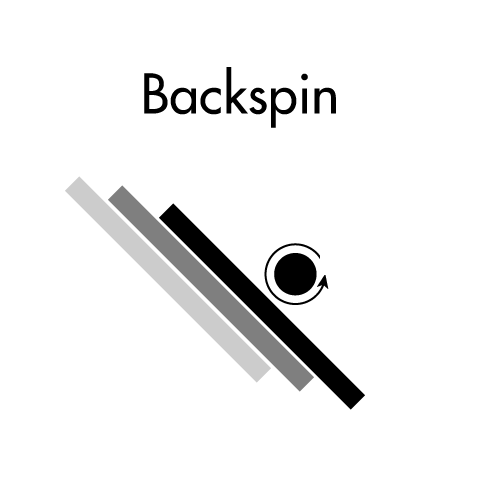
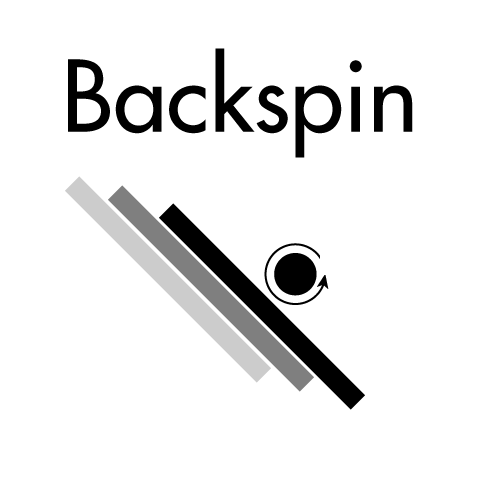
Crazy UI updates

Changed region(s): [[0.125, 0.0938, 0.75, 0.3438], [0.7812, 0.1562, 0.875, 0.2812]]

diff --git a/app/assets/javascripts/serves.js b/app/assets/javascripts/serves.js
@@ -4,54 +4,154 @@ var pauseCheck = null;
 var pauseTime = 0;
 var extraTime = 0;
 
+var state = 0;
+/*
+* 0 = pre-start
+* 1 = played first segment
+* 2 = played second segment
+* 3 = answered
+*/
+
+var answer_length = null;
+var answer_spin = null;
+var answer_direction = null;
+
 $(document).ready(function(){
   if($('.question-container').length > 0){
     videoPlayer = $('video').get(0);
-    videoPlayer.playbackRate = 0.5;
+
     $(videoPlayer).on('canplaythrough', function(){
       $('.loading').text(' ');
-      videoPlayer.play();
+      if(state === 0){
+        $('.start-video').show();
+      }
     });
 
     $(videoPlayer).on('playing', function(){
       pauseCheck = window.setInterval(function() {
         if(videoPlayer.currentTime >= pauseTime) {
-          console.log(videoPlayer.currentTime);
           videoPlayer.pause();
           window.clearInterval(pauseCheck);
-          $('.answer-choices').stop().fadeIn();
+          if(state === 1){
+            $('.show-extra').show();
+            $('.answer-choices').stop().fadeIn();
+          }
         }
       }, 50);
     });
 
-    $('.show-extra').click(function(){
-      pauseTime = extraTime;
-      if(videoPlayer.currentTime <= extraTime){
-        videoPlayer.play();
-      }else{
-        videoPlayer.currentTime = 0;
-        videoPlayer.play();
-      }
+    $('.next-question').click(function(){
+      loadNextQuestion();
+    })
+
+    $('.start-video').click(function(){
+      videoPlayer.play();
+      $(this).hide();
+      state = 1;
     });
 
-    $('.answer-choices li').click(function(){
-      $(this).parent().find('.toggled').removeClass('toggled');
+    $('.show-extra').click(function(){
+      pauseTime = extraTime;
+      state = 2;
+      $(this).hide();
+      $('.replay-video').show();
+      videoPlayer.play();
+    });
+
+    $('.replay-video').click(function(){
+      videoPlayer.currentTime = 0;
+      videoPlayer.play();
+    });
+
+    $('.show-answer').click(function(){
+      state = 3;
+      $('.show-extra, .replay-video').hide();
+      pauseTime = 9999;
+      videoPlayer.currentTime = 0;
+      videoPlayer.play();
+    });
+
+    $(videoPlayer).on('ended', function(){
+      $('.toggled').each(function(){
+        switch($(this).attr('data-choice')){
+          case 'length':
+            if(answer_length != currentServe.serve_length){
+              $(this).addClass('wrong');
+            }else{
+              $(this).addClass('right')
+            }; break;
+          case 'direction':
+            if(answer_direction != currentServe.serve_direction){
+              $(this).addClass('wrong');
+            }else{
+              $(this).addClass('right')
+            }; break;
+          case 'spin':
+            if(answer_spin != currentServe.serve_spin){
+              $(this).addClass('wrong');
+            }else{
+              $(this).addClass('right')
+            }; break;
+        }
+      });
+
+      if($('.right').length == 3){
+        window.setTimeout(celebrateSuccess, 3000);
+      }else{
+        window.setTimeout(punishFailure, 3000);
+      }
+
+      $('.answer-choices img:not(.toggled)').addClass('faded');
+    });
+
+    $('.answer-choices img').click(function(){
+      $(this).siblings('.toggled').removeClass('toggled');
       $(this).addClass('toggled');
+      switch($(this).attr('data-choice')){
+        case 'length': answer_length = $(this).attr('data-answer'); break;
+        case 'direction': answer_direction = $(this).attr('data-answer'); break;
+        case 'spin': answer_spin = $(this).attr('data-answer'); break;
+      }
+
+      if($('.toggled').length == 3){
+        $('.show-answer').removeAttr('disabled');
+      }
     });
 
     loadNextQuestion();
   }
 });
 
+function celebrateSuccess(){
+  $('.answer-choices').fadeOut('slow', function(){
+    $('.result-success').slideDown();
+  })
+}
 
-function loadNextQuestion(){
-  $('.answer-choices').fadeOut();
+function punishFailure(){
+  $('.answer-choices').fadeOut('slow', function(){
+    $('.result-failure').slideDown();
+  })
+}
+
+function cleanupBeforeQuestion(){
+  $('.answer-choices').hide();
+  $('.right').removeClass('right');
+  $('.wrong').removeClass('wrong');
+  $('.faded').removeClass('faded');
+  $('.result-success, .result-failure').hide();
   $('.answer-choices .toggled').removeClass('toggled');
+  $('.show-answer').attr('disabled', 'disabled');
   pauseTime = 0;
   extraTime = 0;
+  state = 0;
+}
+
+function loadNextQuestion(){
+  cleanupBeforeQuestion();
   $.get('/next').done(function(serve){
     currentServe = serve;
-    $('.question-data').html('<div><p>Serve #' + serve.id + '</p><p><strong>Serving Player: </strong>' + serve.player_name + '</p></div>');
+    $('.question-data').html('<p>Serve #' + serve.id + ' in our database, by player ' + serve.player_name + '</p>');
     $('.loading').text('Loading...');
     videoPlayer.src = serve.video;
     pauseTime = serve.time_1;

diff --git a/app/assets/stylesheets/serves.css b/app/assets/stylesheets/serves.css
@@ -4,12 +4,24 @@ body{
   background-color: white;
   color: #333333;
   font-family: "Gill Sans", "Gill Sans MT", Calibri, sans-serif;
-  font-size: 20px;
+  font-size: 16px;
 }
 
 .container{
   width: 800px;
   margin: 0 auto;
+}
+
+.banner{
+  margin-bottom: 20px;
+  padding-bottom: 5px;
+}
+
+.banner h1{
+  font-size: 30px;
+  line-height: 36px;
+  margin-bottom: 0;
+  padding-bottom: 0;
 }
 
 .text-center{
@@ -23,47 +35,79 @@ video{
 }
 
 button{
-  background-color: #333333;
-  color: white;
-  border-radius: 5px;
+  color: #333333;
+  background-color: white;
   border: none;
   padding: 10px;
+  border: 1px #333333 solid;
+  cursor: pointer;
+}
+
+button:hover:enabled{
+  background-color: #333333;
+  color: white;
+}
+
+button:disabled{
+  opacity: 0.3;
 }
 
 .answer-choices{
-  margin-top: 20px;
-}
-
-.answer-choices table{
   width: 100%;
-}
-
-.answer-choices th{
-  padding: 5px;
-}
-
-.answer-choices th, .answer-choices td{
-  width: 33%;
-  font-size: 20px;
-}
-
-.answer-choices ul{
-  margin: 0;
-  padding: 0;
-  list-style: none;
-}
-
-.answer-choices li{
-  margin: 5px 5% 5px 5%;
-  padding: 0;
-  width: 90%;
-  height: 20px;
-  border-radius: 5px;
   text-align: center;
+  font-size: 20px;
+  display: none;
 }
 
-.answer-choices li:hover, .answer-choices .toggled{
-  background-color: #333333;
-  color: white;
+.length-choices{
+  width: 200px;
+  display: inline-block;
+}
+
+.direction-choices{
+  width: 300px;
+  display: inline-block;
+  margin: 0 30px;
+}
+
+.spin-choices{
+  width: 200px;
+  display: inline-block;
+}
+
+.choice-header{
+  margin-bottom: 5px;
+}
+
+.answer-choices img{
+  display: inline-block;
+  width: 90px;
+  margin: -1px;
   cursor: pointer;
+  border: 2px #BBB dashed;
+  border-radius: 5px;
+}
+
+.answer-choices img:hover{
+  border-color: black;
+}
+
+.toggled{
+  border: 2px black solid !important;
+}
+
+.result-success, .result-failure, .start-video, .show-extra, .replay-video{
+  display: none;
+}
+
+.wrong{
+  border-color: red !important;
+}
+
+.right{
+  border-color: green !important;
+}
+
+.faded{
+  opacity: 0.3;
 }
